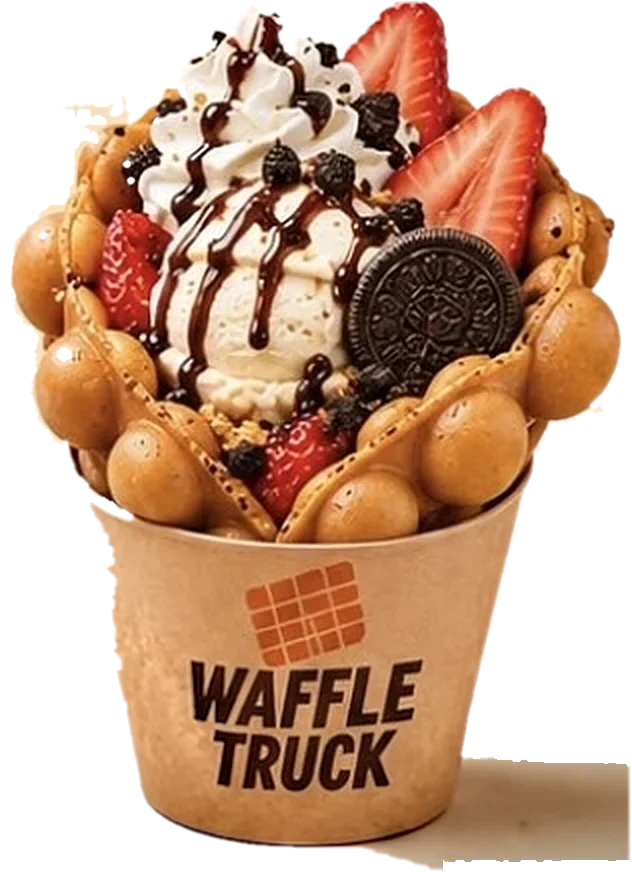
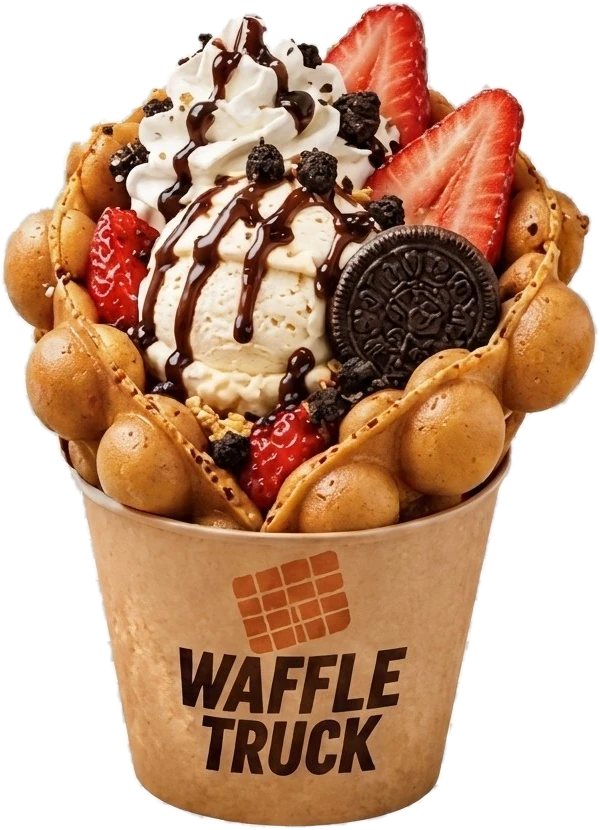
Demo 2: new hero bubble cup and sticker images
- Hero portal cup replaced by the owner's new photo (checkerboard cut out)
- 6 cups, churros, crepe, frappe cup and 4 bubble teas use the new sticker sheet
- Old cut-outs kept for Demos 01/03 and the menu TVs

diff --git a/02-golden-crunch/main.js b/02-golden-crunch/main.js
@@ -39,7 +39,7 @@ function cups() {
   const parts = (d) => d.pick.map((c, i) => (c ? (lbl[i] ? `${lbl[i]} ${c.toLowerCase()}` : c) : null)).filter(Boolean)
 
   track.innerHTML = list.map((d, i) => `
-    <figure class="cup" data-i="${i}">${img(d.img, `Bubble waffle ${d.name}`, 'cup-img', true)}
+    <figure class="cup" data-i="${i}">${img(d.img.replace('cut/', 'cut/sticker/'), `Bubble waffle ${d.name}`, 'cup-img', true)}
       <figcaption><b>${d.name}</b><span>${parts(d).join(' · ')}</span></figcaption></figure>`).join('')
   const figs = [...track.children]
 
@@ -157,7 +157,7 @@ P.push(`<article class="panel"><div class="art"><div class="duo">${img('cut/area
   <h3>Les OVNI</h3><p class="sub">Les burgers venus d'ailleurs · pain pressé</p>
   <ul class="mlist">${ovnis.map((o) => row(o.name, o.desc)).join('')}</ul>${fbox(formulas.ovni)}
   <h4>OVNI d'hiver</h4><ul class="mlist">${ovnisHiver.items.map((o) => row(o.name, o.desc)).join('')}${row('Menu Complet', ovnisHiver.menuComplet.detail)}${row('Area Express', ovnisHiver.areaExpress.detail)}</ul>${order()}</div></article>`)
-P.push(`<article class="panel"><div class="art"><div class="duo">${img('cut/churros.webp', 'Churros')}${img('cut/crepe-nutella.webp', 'Crêpe Nutella')}</div></div><div>
+P.push(`<article class="panel"><div class="art"><div class="duo">${img('cut/sticker/churros.webp', 'Churros et sauce chocolat')}${img('cut/sticker/crepe-nutella.webp', 'Crêpe Nutella')}</div></div><div>
   <h3>La pause ultra gourmande</h3><p class="sub">Waffles, churros, crêpes et beignets</p>
   <ul class="mlist">${row('Bubble Waffle', 'Base nature, chocolat ou matcha, à composer')}${desserts.churros.map((c) => row(c.name)).join('')}${desserts.crepes.map((c) => row(c.name)).join('')}${row('Beignet', desserts.beignets.flavours.join(' · '))}${row('La Pause Café', desserts.pauseCafe.detail)}</ul>
   <p class="note">Suppléments au choix : Chantilly, Bueno, Banane</p>${order()}</div></article>`)
@@ -165,11 +165,11 @@ P.push(`<article class="panel"><div class="art"><div class="duo">${img('cut/dame
   <h3>Glaces</h3><p class="sub">${glaces.parfums.join(' · ')}</p>
   <ul class="mlist">${row('Boules de glace', '1, 2 ou 3 boules, les parfums de ton choix')}</ul>
   <h4>Coupes les plus vendues</h4><ul class="mlist cols">${glaces.coupes.map((c) => row(c.name, c.desc)).join('')}</ul><p class="note">${glaces.note}</p>${order()}</div></article>`)
-P.push(`<article class="panel"><div class="art">${img('cut/pause-cafe.webp', 'Café et crêpe')}</div><div>
+P.push(`<article class="panel"><div class="art">${img('cut/sticker/frappe-cup.webp', 'Frappé Waffle Truck avec chantilly et chocolat')}</div><div>
   <h3>Cafés &amp; chocolats</h3><p class="sub">Pour la pause café, sur place ou à emporter</p>
   <ul class="mlist cols">${boissonsChaudes.cafes.map(([a, , t]) => row(a, '', t)).join('')}</ul>
   <h4>Chocolats chauds</h4><ul class="mlist">${boissonsChaudes.chocolats.map(([a, , t]) => row(a, '', t)).join('')}</ul>${order()}</div></article>`)
-P.push(`<article class="panel"><div class="art"><div class="duo">${img('cut/bt-mangue.webp', 'Bubble tea mangue')}${img('cut/bt-fruits-rouges.webp', 'Bubble tea fruits rouges')}</div></div><div>
+P.push(`<article class="panel"><div class="art"><div class="duo quad">${img('cut/sticker/bt-lacte.webp', 'Bubble tea lacté')}${img('cut/sticker/bt-fruits-rouges.webp', 'Bubble tea fruits rouges')}${img('cut/sticker/bt-mangue.webp', 'Bubble tea mangue')}${img('cut/sticker/bt-violet.webp', 'Bubble tea violet')}</div></div><div>
   <h3>Bubble tea &amp; boissons fraîches</h3><p class="sub">Base fruitée ou lactée · ${bubbleTea.sirops.length} sirops · perles fruitées ou tapioca</p>
   <ul class="mlist">${row('Bubble tea', bubbleTea.formats.map((f) => `${f.name} ${f.size}`).join(' · '))}
   ${boissonsFroides.map((d) => row(d.name, `${d.items}${d.prices.length > 1 ? ' · 35 cl / 75 cl' : ''}`)).join('')}</ul>${order()}</div></article>`)

diff --git a/02-golden-crunch/style.css b/02-golden-crunch/style.css
@@ -90,6 +90,9 @@ em { font-style: italic; color: var(--caramel); }
 .panel .art .duo { display: flex; align-items: end; justify-content: center; position: relative; }
 .panel .art .duo img { max-height: 230px; max-width: 50%; }
 .panel .art .duo img + img { margin-left: -6%; }
+/* 4 bubble tea stickers in a row (27 Nov 2026) */
+.panel .art .quad img { max-height: 200px; max-width: 27%; }
+.panel .art .quad img + img { margin-left: -3%; }
 .panel h3 { font: 800 clamp(28px, 3vw, 40px)/1.05 var(--serif); margin: 0 0 4px; color: var(--honey); }
 .panel .sub { margin: 0 0 18px; opacity: .75; font-size: 15px; }
 .panel h4 { font: 700 15px/1.2 var(--sans); text-transform: uppercase; letter-spacing: .1em; margin: 16px 0 6px; color: var(--honey); }
@@ -147,6 +150,7 @@ address a { color: var(--caramel); font-weight: 700; }
   .panel { scroll-snap-align: center; grid-template-columns: 1fr; width: 88vw; padding: 24px; min-height: 0; }
   .panel .art img { max-height: 190px; }
   .panel .art .duo img { max-height: 170px; }
+  .panel .art .quad img { max-height: 140px; }
   .lieu { grid-template-columns: 1fr; grid-template-areas: 'txt' 'big'; }
   .reveal-img.big { aspect-ratio: 4 / 3; }
   .reveal-img.small { justify-self: stretch; max-width: none; }

diff --git a/tools/build_stickers.py b/tools/build_stickers.py
@@ -1,0 +1,83 @@
+"""Sticker sheet sent by KOS on 27 Nov 2026 (1024 x 1024 JPG, black/grey checkerboard baked in, every item has a
+white sticker border). KOS: keep the white border. One transparent WebP per item, in demos/public/img/cut/sticker/.
+
+Run from sites/waffle Truck:  py demos/tools/build_stickers.py
+Source kept in images/2026-11-27-stickers/sheet.jpg. Previews in demos/_qa/stickers-*.png.
+The old cut-outs (img/cut/*.webp) are not touched: Demos 01/03 and the menu TVs still use them.
+"""
+from pathlib import Path
+
+import numpy as np
+from PIL import Image, ImageFilter
+from scipy import ndimage as ndi
+
+OUT = Path("demos/public/img/cut/sticker")
+OUT.mkdir(parents=True, exist_ok=True)
+# one point inside each sticker (sheet pixels, x, y)
+SEEDS = {
+    "cup-1": (100, 160), "cup-2": (270, 160), "cup-3": (440, 160),          # Oreo, Fraise chantilly, Choco noisette
+    "cup-4": (612, 160), "cup-5": (780, 160), "cup-6": (940, 160),          # Banane caramel, Fruits rouges, M&M's
+    "burger-1": (555, 445), "burger-2": (760, 445), "burger-3": (940, 445),  # not used (OVNI photos kept)
+    "crepe-nutella": (110, 670), "churros": (550, 670), "milkshake-oreo": (940, 760),
+    "gaufre-fraise": (125, 870), "bt-lacte": (295, 890), "bt-fruits-rouges": (385, 890),
+    "bt-mangue": (478, 890), "bt-violet": (572, 890), "frites-box": (700, 850), "frappe-cup": (850, 900),
+}
+SCALE = 2
+TEAS = ["bt-lacte", "bt-fruits-rouges", "bt-mangue", "bt-violet"]
+
+im = Image.open("images/2026-11-27-stickers/sheet.jpg").convert("RGB")
+a = np.asarray(im).astype(int)
+mx, mn = a.max(2), a.min(2)
+# checker = black (~0) and dark grey (~83) squares, neutral. The white border closes every sticker.
+cand = (mx <= 110) & ((mx - mn) <= 12)
+lab, _ = ndi.label(cand)
+border = np.unique(np.concatenate([lab[0], lab[-1], lab[:, 0], lab[:, -1]]))
+fg = ~np.isin(lab, border[border > 0])
+fg = ndi.binary_opening(fg, iterations=2)          # checker seams
+fg = ndi.binary_fill_holes(fg)
+
+# stickers that touch: split them by eroding, take the part under the seed, grow it back inside fg
+core = ndi.binary_erosion(fg, iterations=4)
+clab, _ = ndi.label(core)
+big = im.resize((im.width * SCALE, im.height * SCALE), Image.LANCZOS).filter(ImageFilter.UnsharpMask(radius=2, percent=60, threshold=2))
+for name, (x, y) in SEEDS.items():
+    k = clab[y, x]
+    if not k:
+        raise SystemExit(f"{name}: seed is not inside a sticker")
+    part = ndi.binary_dilation(clab == k, iterations=5) & fg
+    if name in TEAS:
+        # the 4 teas touch: cut the joined block at the narrowest column between this tea and its neighbours
+        cols = part.sum(0)
+        i = TEAS.index(name)
+        xs = [SEEDS[t][0] for t in TEAS]
+        def neck(x0, x1):
+            lo, hi = (x0 + x1) // 2 - 25, (x0 + x1) // 2 + 25
+            return lo + int(np.argmin(cols[lo:hi]))
+        left = neck(xs[i - 1], xs[i]) if i else 0
+        right = neck(xs[i], xs[i + 1]) if i < len(TEAS) - 1 else part.shape[1]
+        part[:, :left] = False
+        part[:, right:] = False
+    part = ndi.binary_fill_holes(part)
+    part = ndi.binary_erosion(part, iterations=1)  # drop the dark fringe just outside the white border
+    mask = Image.fromarray((part * 255).astype(np.uint8)).resize(big.size, Image.BICUBIC).filter(ImageFilter.GaussianBlur(1.2))
+    out = big.copy()
+    out.putalpha(mask)
+    out = out.crop(mask.getbbox())
+    out.save(OUT / f"{name}.webp", quality=90, method=6)
+    print(f"{name:18s} {out.size}")
+
+# contact sheet on the cream page colour and on dark, to check the edges
+names = list(SEEDS)
+for bgname, col in (("cream", (251, 241, 226)), ("dark", (58, 31, 18))):
+    sheet = Image.new("RGB", (1800, 1400), col)
+    x = y = 10
+    row_h = 0
+    for n in names:
+        t = Image.open(OUT / f"{n}.webp")
+        t.thumbnail((280, 330))
+        if x + t.width > 1790:
+            x, y, row_h = 10, y + row_h + 10, 0
+        sheet.paste(t, (x, y), t)
+        x += t.width + 10
+        row_h = max(row_h, t.height)
+    sheet.save(f"demos/_qa/stickers-{bgname}.png")

diff --git a/tools/build_bubble_waffle.py b/tools/build_bubble_waffle.py
@@ -1,0 +1,39 @@
+"""Bubble cup photo sent by KOS on 27 Nov 2026 (1024 x 1024, grey/white checkerboard baked into the JPG)
+-> transparent cut-out for the hero "portal" scene. Replaces the old cut-out that had a grey shadow block on the right.
+
+Run from sites/waffle Truck:  py demos/tools/build_bubble_waffle.py
+Source kept in images/2026-11-27-bubble-cup/bubble-cup-oreo-fraise.jpg. Output: demos/public/img/cut/bubble-waffle.webp
+"""
+import numpy as np
+from PIL import Image, ImageFilter
+from scipy import ndimage as ndi
+
+im = Image.open("images/2026-11-27-bubble-cup/bubble-cup-oreo-fraise.jpg").convert("RGB")
+a = np.asarray(im).astype(int)
+mx, mn = a.max(2), a.min(2)
+sat = mx - mn
+# checker squares: neutral grey (~203) and neutral white (~241). The cream is warmer / brighter, so keep the band tight.
+checker = (sat <= 5) & (mx >= 190) & (mx <= 250)   # both squares + the JPEG blur between them
+lab, n = ndi.label(checker)
+border = np.unique(np.concatenate([lab[0], lab[-1], lab[:, 0], lab[:, -1]]))
+bg = np.isin(lab, border[border > 0])
+fg = ~bg
+fg = ndi.binary_opening(fg, iterations=4)        # remove thin checker seams
+lab2, n2 = ndi.label(fg)
+sizes = ndi.sum(fg, lab2, range(1, n2 + 1))
+fg = lab2 == (int(np.argmax(sizes)) + 1)          # keep only the cup
+fg = ndi.binary_fill_holes(fg)
+fg = ndi.binary_erosion(fg, iterations=2)         # drop the light grey fringe
+
+mask = Image.fromarray((fg * 255).astype(np.uint8)).filter(ImageFilter.GaussianBlur(1.0))
+out = im.copy()
+out.putalpha(mask)
+out = out.crop(out.getbbox())
+out.save("demos/public/img/cut/bubble-waffle.webp", quality=90, method=6)
+print("saved", out.size)
+
+# previews on the cream page colour and on dark, to check the edges
+for name, col in (("cream", (251, 241, 226)), ("dark", (58, 31, 18))):
+    prev = Image.new("RGB", out.size, col)
+    prev.paste(out, (0, 0), out)
+    prev.save(f"demos/_qa/bubble-waffle-{name}.png")
